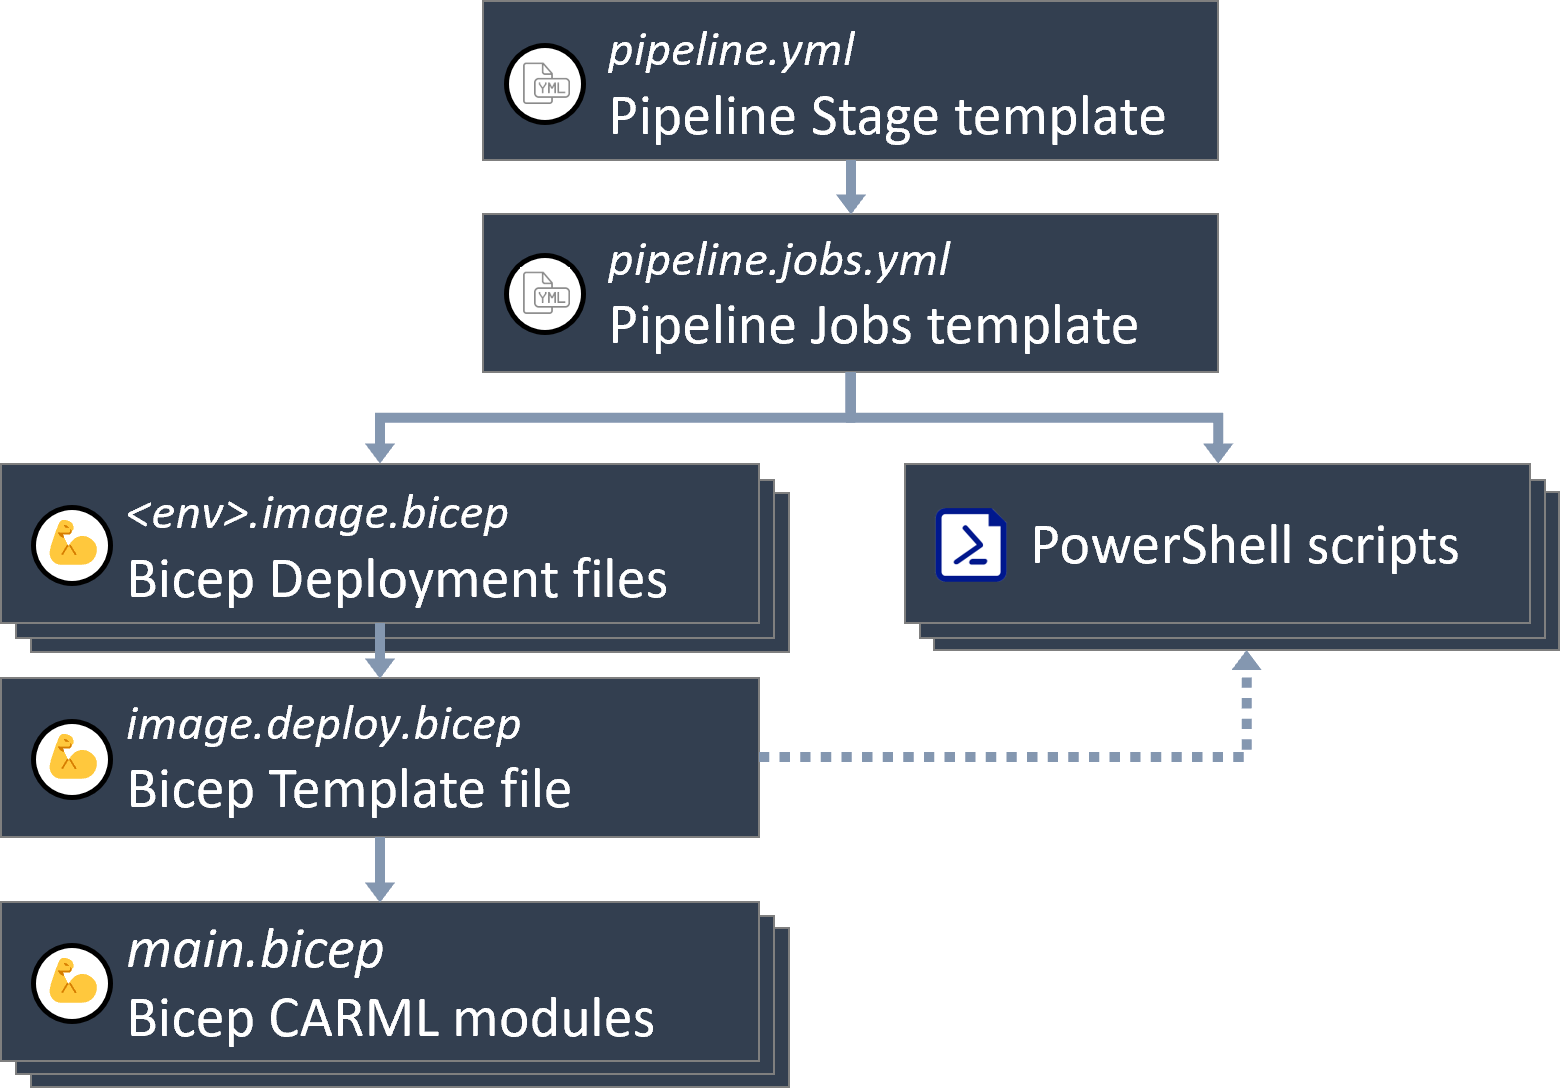
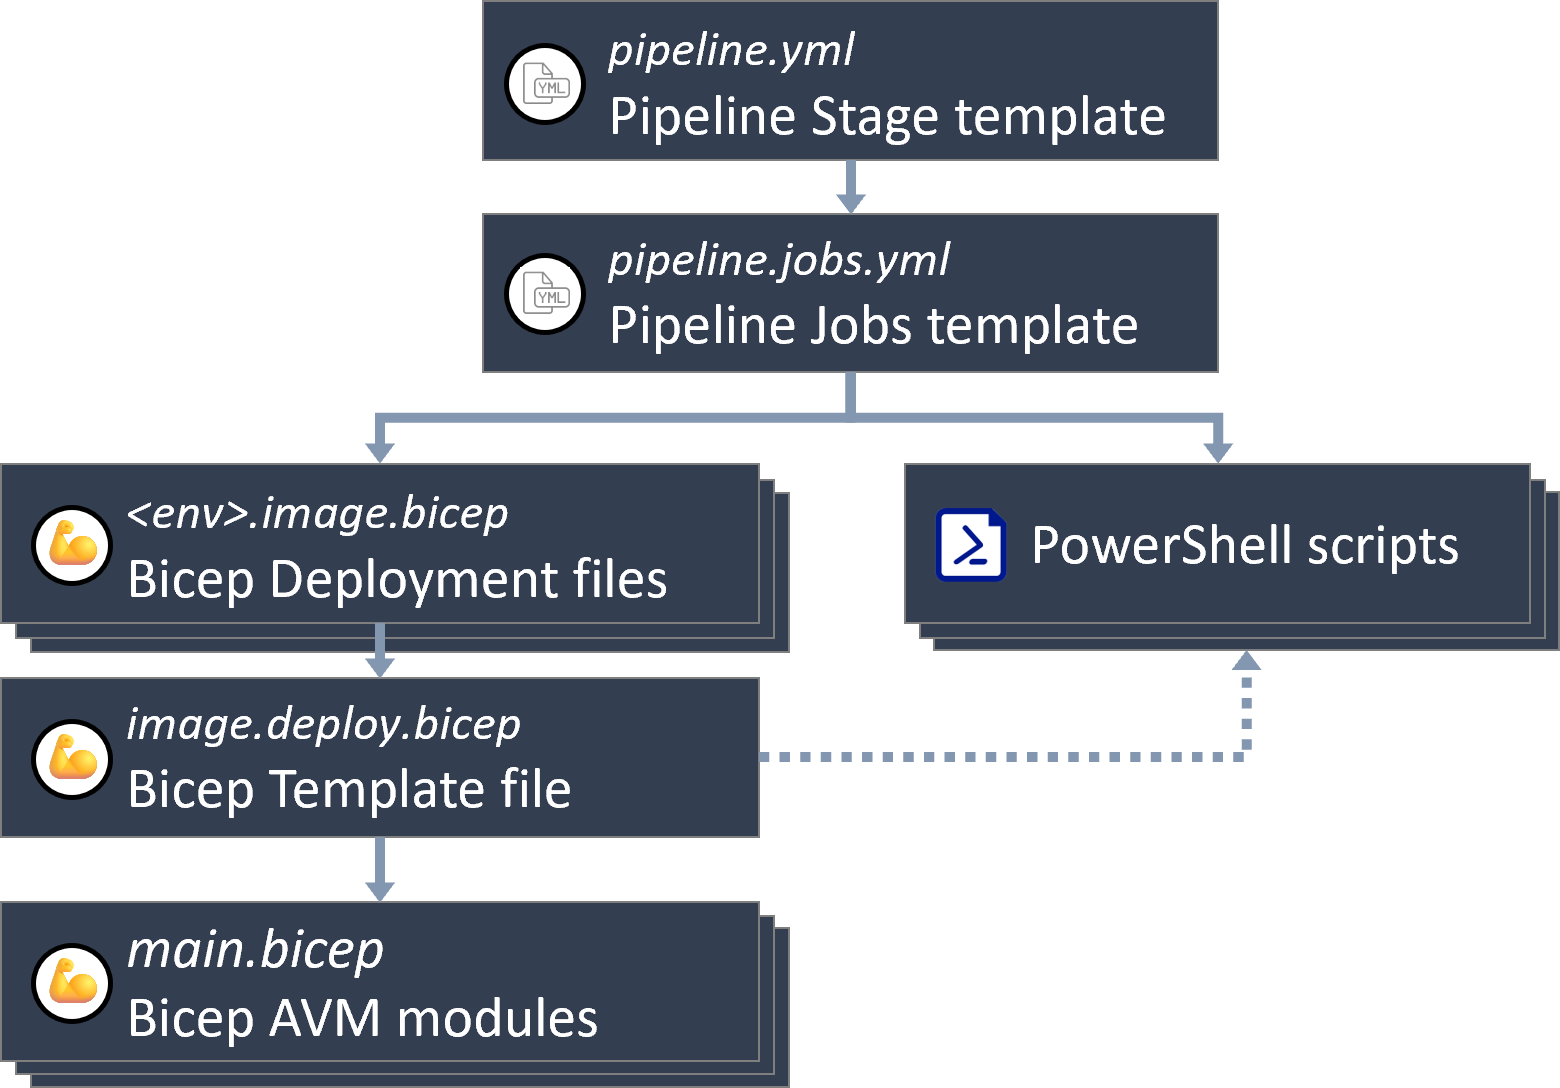
Updated the image construct docs

diff --git a/docs/wiki/Creating images with the Azure Image Builder.md b/docs/wiki/Creating images with the Azure Image Builder.md
@@ -19,7 +19,7 @@ This sections gives you an overview on how to use the Azure Image Builder (AIB) 
 
 The deployments described in the following sections assume certain prerequisites to be in place prior to deployment.
 
-- The deployment principal (e.g., the Service Principal tied to the deploying Service Connection) must have at least `Contributor` & `User Access Adminitrator` permissions on the target subscription to be able to deploy both resources and assign permissions to created user-assigned identities
+- The deployment principal (e.g., the Service Principal tied to the deploying Service Connection) must have at least `Contributor` & `User Access Administrator` permissions on the target subscription to be able to deploy both resources and assign permissions to created user-assigned identities
 - IF you have a policy in place that prevents Storage Accounts from being deployed without a Firewall, you have to create an exemption for the Image Template / Staging Resource Group you can configure for the Image Template Resource (parameter `imageTemplateResourceGroupName`). The rationale is that the Azure-Image-Builder service uses this resource group to deploy both temporal resources used during the image build (e.g., a Virtual Machine), as well as a Storage Account to store temporal files & a 'packerlogs/customization.log' file in (which contains the logs of the image build). This Storage Account has no firewall configured, has a random name, and cannot be configured at deploy time.
 
 ## Elements
@@ -36,7 +36,7 @@ The image creation uses several components:
 | <img src="./media/icons/Deployment-Script.png" alt="Managed Identity" height="12"> | (Storage) Deployment Script | The Deployment Script that uploads the customization scripts to the Assets Storage Account. |
 | <img src="./media/icons/Deployment-Script.png" alt="Managed Identity" height="12"> | (Trigger) Deployment Script | The Deployment Script that triggers the Image Template build. |
 | <img src="./media/icons/AzureComputeGalleries.svg" alt="Azure Compute Gallery" height="12"> | Azure Compute Gallery | Azure service that helps to build structure and organization for managed images. Provides global replication, versioning, grouping, sharing across subscriptions and scaling. The plain resource in itself is like an empty container. |
-| <img src="./media/icons/VMImageDefinitions.svg" alt="Azure Compute Gallery Image" height="12"> | Azure Compute Gallery Image | Created within a gallery and contains information about the image and requirements for using it internally. This includes metadata like whether the image is Windows or Linux, release notes and recommended compute resources. Like the image gallery itself it acts like a container for the actual images. |
+| <img src="./media/icons/VMImageDefinitions.svg" alt="Azure Compute Gallery Image Definition" height="12"> | Azure Compute Gallery Image Definition | Created within a gallery and contains information about the image and requirements for using it internally. This includes metadata like whether the image is Windows or Linux, release notes and recommended compute resources. Like the image gallery itself it acts like a container for the actual images. |
 | <img src="./media/icons/ImageTemplates.svg" alt="Image Template" height="12"> | Image Template | A standard Azure Image Builder template that defines the parameters for building a custom image with AIB. The parameters include image source (Marketplace, custom image, etc.), customization options (i.e., Updates, scripts, restarts), and distribution (i.e., managed image, Azure Compute Gallery). The template is not an actual resource. Instead, when an image template is created, Azure stores all the metadata of the referenced Azure Compute Gallery Image alongside other image backing instructions as a hidden resource in a temporary resource group. |
 | <img src="./media/icons/VMImageVersions.svg" alt="Image Version" height="12"> | Image Version | An image version (for example `0.24322.55884`) is what you use to create a VM when using a gallery. You can have multiple versions of an image as needed for your environment. This value **cannot** be chosen. |
 
@@ -97,16 +97,37 @@ The first file, `variables.yml`, is a pipeline variable file. You should update 
 ### Parameters
 Next, we have one deployment file, `<env>.image.bicep` that hosts to the two phases in the deployment: Deploy all infrastructure components & build the image.
 
-The file comes with out-of-the box parameters that you can use aside from a few noteworthy exceptions:
-- Update any name of a resource that is deployed and must be globally unique (for example storage accounts).
+The file comes with out-of-the box parameters that you can use aside from a few noteworthy exceptions: Update any name of a resource that is deployed and must be globally unique (for example storage accounts).
 
 > **Note:** To keep the parameter files as simple as possible, all values that don't necessarily need you attention are hardcoded as default values in the corresponding template files. To get an overview about these 'defaults', you can simply navigate from the parameter file to the linked template.
 
 The parameter files are created with a Linux-Image in mind. However, they also contain examples on how the same implementation would look like for Windows images. Examples are always commented and can be used to replace the currently not commented values.
 
-As the deployments leverage [`AVM`](https://aka.ms/avm) modules you can find a full list of all supported parameters per module in that repository's modules. A valid example may be that you want to deploy the Image Template into a specific subnet for networking access. This and several other parameters are available and documented in the module's `readme.md`.
+As the deployments leverage [`AVM`](https://aka.ms/avm) modules you can find a full list of all supported parameters per module in that [repository's](https://www.github.com/Azure/bicep-registry-modules) modules. A valid example may be that you want to deploy the Image Template into a specific subnet for networking access. This and several other parameters are available and documented in the module's `readme.md`.
 
-#### Special case: **Image Template**
+#### Special case: Parameter **storageAccountFilesToUpload**
+
+Please note that the Deployment Script that uploads files to the Assets Storage Account does so by processing the input values provided via the `storageAccountFilesToUpload` parameter. A typical syntax may look like the following:
+```bicep
+storageAccountFilesToUpload: [
+  {
+    name: 'Script1.sh'
+    value: loadTextContent('../scripts/uploads/Script1.sh')
+  }
+  {
+    name: 'Script2.ps1'
+    value: loadTextContent('../scripts/uploads/linux/Script2.ps1')
+  }
+]
+```
+As you may notice, the parameter expects that the `value` of each file is a string containing each file's content, **not** a path. This design is rooted in the fact that the Deployment would not be able to access your local files from inside the Azure Environment. So, upon triggering the deployment, the template loads the files into its compiled template before sending the entire file to Azure.
+While this is a very seamless experience, it has some limitations you must be aware of. For one, the `loadTextContent()` function can only load files with up to 131.072 characters. Further, as the files will be part of the template itself, you are limited by the maximum template size of 4 mb for the compiled JSON file.
+For reference, in the provided Linux example we're looking at the following sizes:
+- `Initialize-LinuxSoftware.ps1`: 18.042 characters
+- `Install-LinuxPowerShell.sh`: 1.272 characters
+- Total size of compiled `sbx.image.bicep` template: 1.15 mb
+
+#### Special case: Resource **Image Template**
 
 The image template ultimately decides what happens during the image built. In this construct, it works in combination with the scripts provided in the `constructs\azureImageBuilder\scripts\uploads` folder.
 
@@ -188,10 +209,10 @@ When triggering the pipeline for the first time for any environment, make sure y
 The steps the _Azure Image Builder_ performs on the image are defined by elements configured in the `customizationSteps` parameter of the image template parameter file. In our setup we reference one or multiple custom scripts that are uploaded by the template to a storage account ahead of the image deployment.
 The scripts are different for the type of OS and hence are also stored in two different folders in the `azureImageBuilder` construct:
 
-- Linux:    `constructs\azureImageBuilder\scripts\uploads\linux\Initialize-LinuxSoftware.ps1`
-- Windows:  `constructs\azureImageBuilder\scripts\uploads\windows\Initialize-WindowsSoftware.ps1`
+- Linux:    `constructs\azureImageBuilder\scripts\uploads\linux`
+- Windows:  `constructs\azureImageBuilder\scripts\uploads\windows`
 
-One of the main tasks performed by these scripts are the installation of the baseline modules and software we want to have installed on the image. Prime candidates are for example the Az PowerShell modules, Bicep or Terraform.
+One of the main tasks performed by these scripts are the installation of the baseline modules and software we want to have installed on the image. Prime candidates are for example the Az PowerShell modules, Bicep CLI and Terraform CLI.
 
 ### Consecutive deployments
 
